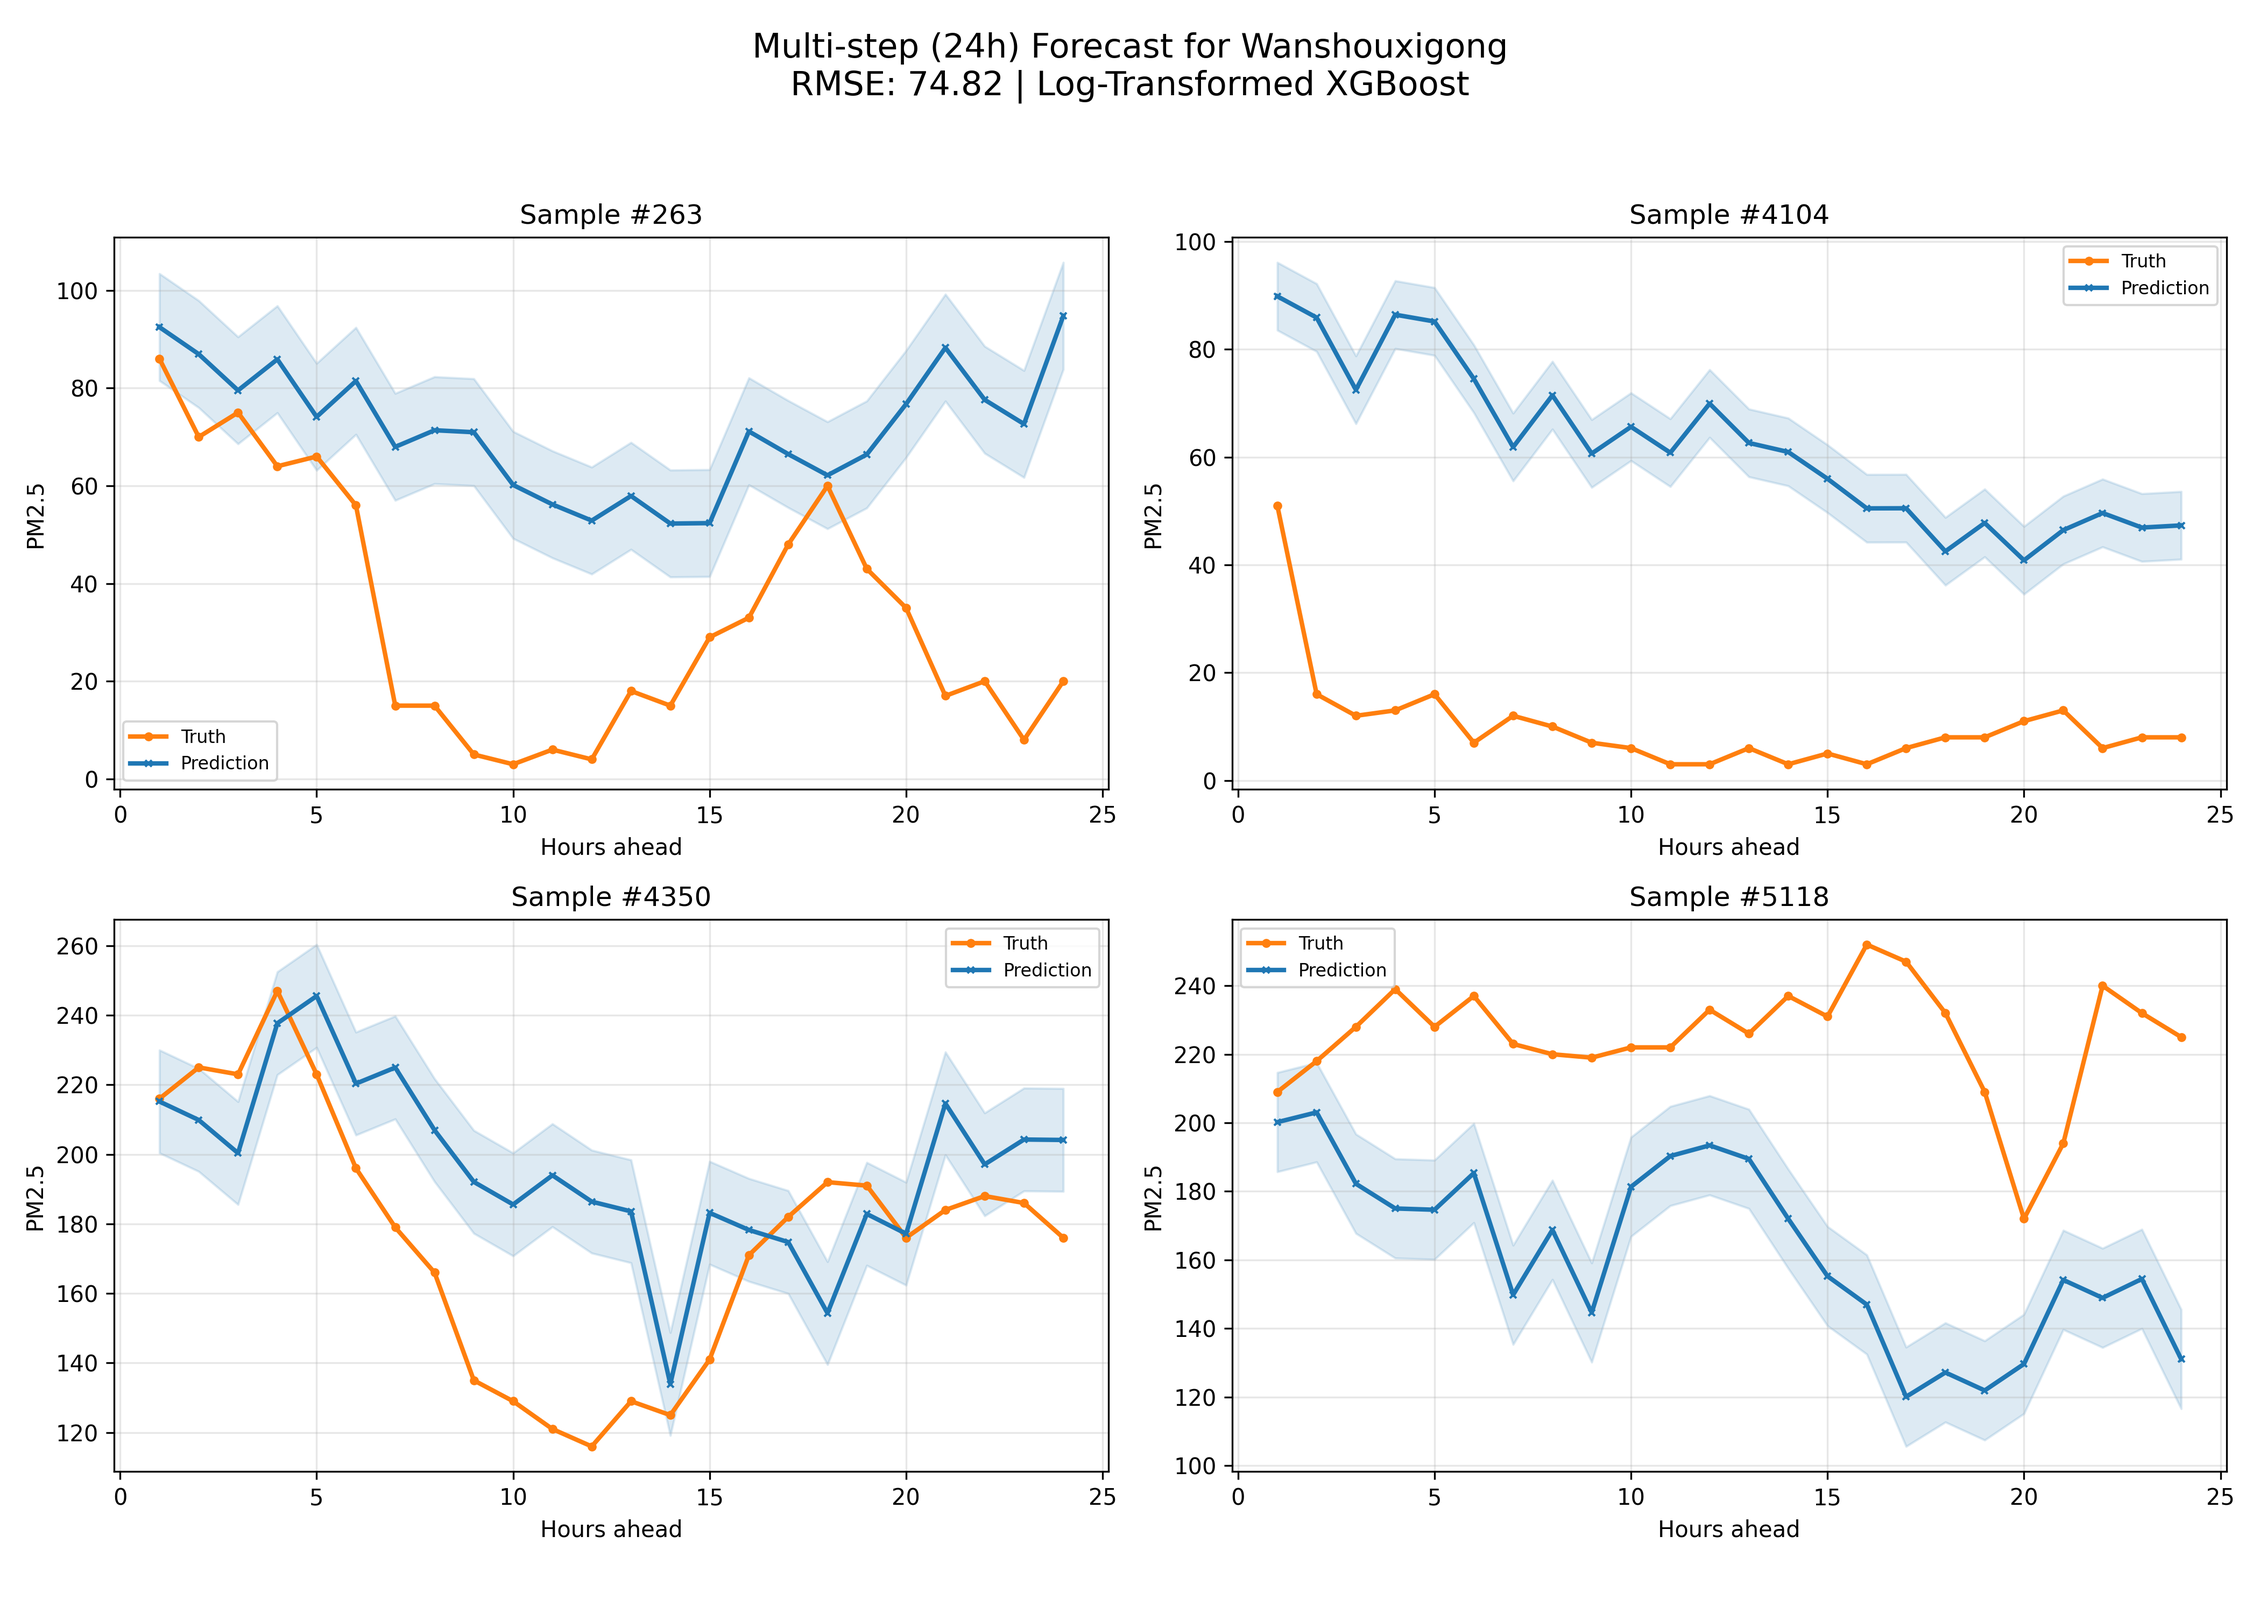
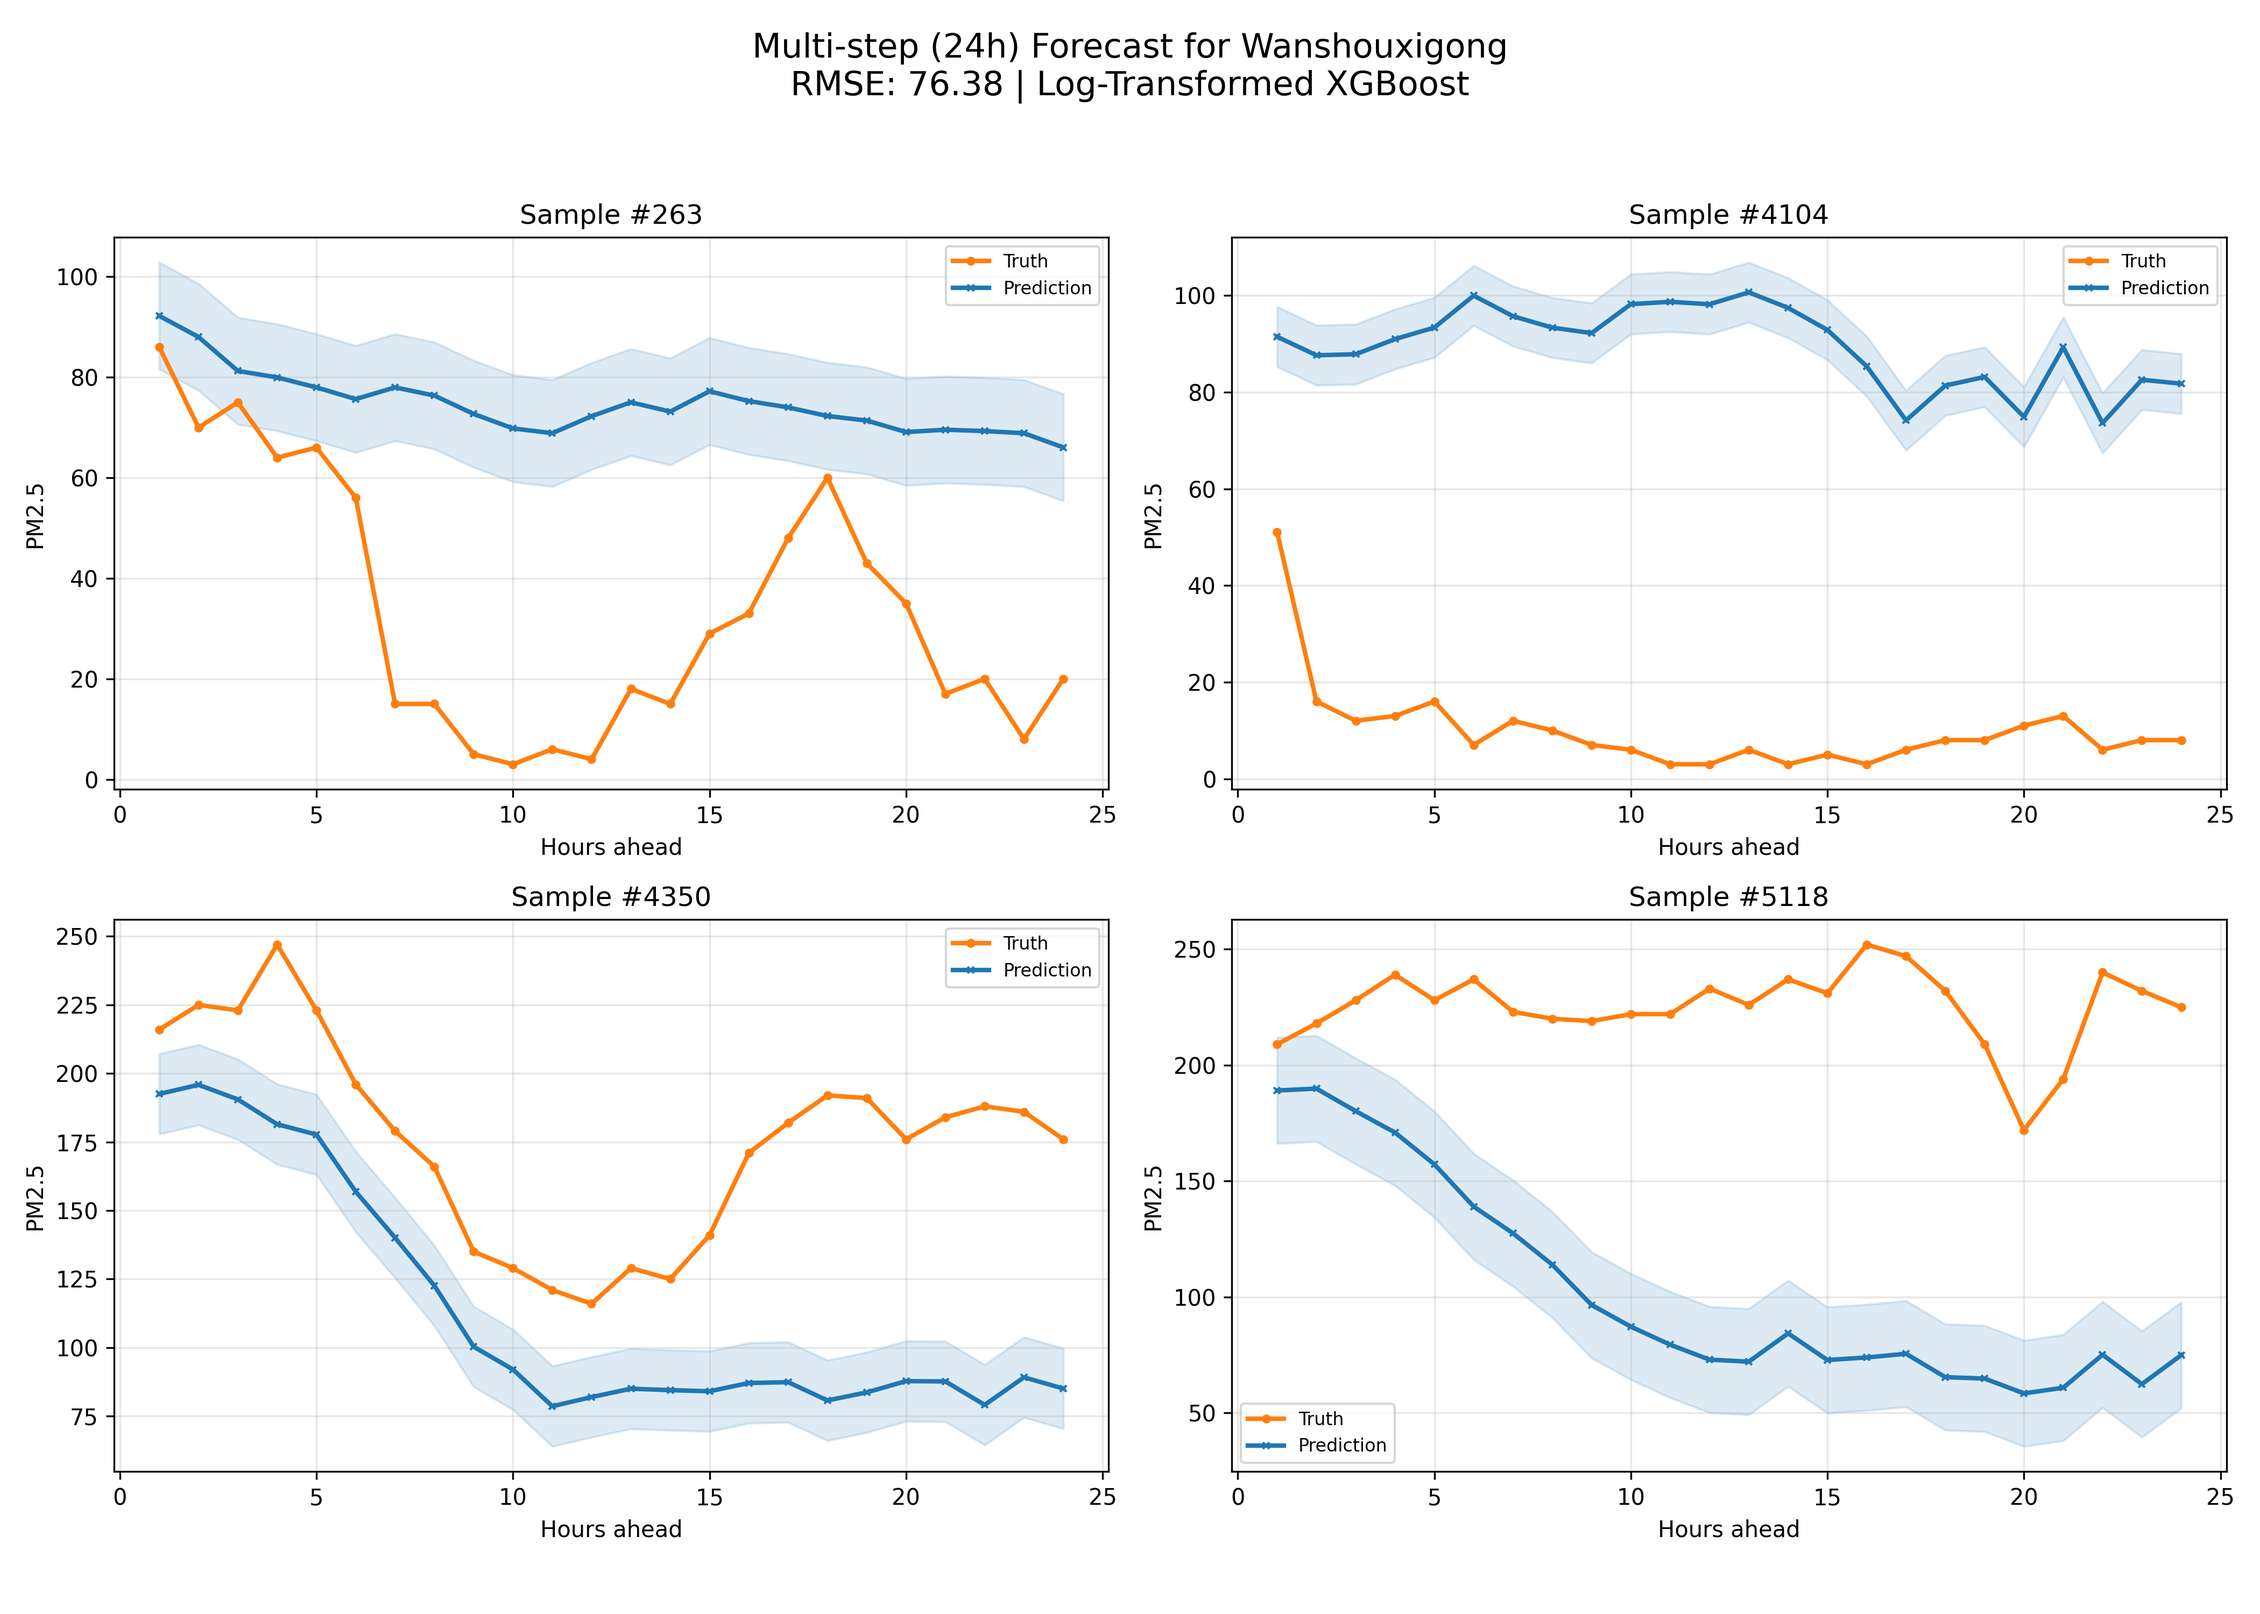
small changes

diff --git a/multi-output/run_drift.py b/multi-output/run_drift.py
@@ -7,6 +7,8 @@ from forecastor import Forecaster
 
 # ---- WITH DRIFT DETECTION -----
 
+DRIFT_STRATEGY = 'full refit'
+
 data_path = 'data/PRSA_Data_Wanshouxigong_20130301-20170228.csv'
 try:
     file_name = os.path.basename(data_path)
@@ -14,7 +16,7 @@ try:
 except:
     station_name = "UnknownStation"
 
-output_folder = 'results/MultiOutput_XGBoost_drift'
+output_folder = 'multi-output/results/MultiOutput_XGBoost_drift'
 os.makedirs(output_folder, exist_ok=True)
 
 horizon_hours = 24  # forecast horizon
@@ -60,12 +62,12 @@ forecaster.fit(X_train, y_train, X_val, y_val)
 # ==========================================
 # 4. Drift-Adaptive Rolling Forecast
 # ==========================================
-print(">>> Step 3: Drift-Adaptive Forecasting...")
+print(">>> Step 3: Drift-Adaptive Forecasting with strategy: ", DRIFT_STRATEGY)
 
 predictions = []
 errors = []
 
-update_stride = 250   
+update_stride = 1000   
 drift_threshold = 12.0  # PM2.5 error threshold
 
 for t in range(0, len(X_test), update_stride):
@@ -92,11 +94,14 @@ for t in range(0, len(X_test), update_stride):
     # 3. Adaptation Strategy (CHOOSE ONE)
     
     # ---- OPTIONS: FULL REFIT, PARTIAL REFIT, RETRAIN ----
-    if drift:
-        forecaster.retrain_recent(X_train_full, y_train_full, window_size=5000)
-    else:
-        forecaster.full_refit(X_batch, y_batch) # changable function
-
+    if drift and DRIFT_STRATEGY == 'full refit':
+        forecaster.full_refit(X_batch, y_batch)
+    elif drift and DRIFT_STRATEGY == 'partial refit':
+        forecaster.partial_refit(X_batch, y_batch)
+    elif drift and DRIFT_STRATEGY == 'retrain':
+        forecaster.retrain_recent(X_batch, y_batch)
+        
+        
 # Stack all batch predictions into final array
 y_pred = np.vstack(predictions)
 
@@ -137,7 +142,7 @@ for i, idx in enumerate(indices):
     plot_trajectory(axes[i], y_test[idx], y_pred[idx], start_idx=idx, horizon=horizon_hours)
     axes[i].set_title(f"Sample #{idx}")
 
-plt.suptitle(f"Multi-step ({horizon_hours}h) Forecast for {station_name} with Drift Detecion\n"
+plt.suptitle(f"Multi-step ({horizon_hours}h) Forecast for {station_name} with {DRIFT_STRATEGY}\n"
              f"RMSE: {rmse:.2f} | Log-Transformed XGBoost", fontsize=15)
 plt.tight_layout(rect=[0, 0.03, 1, 0.95])
 

diff --git a/multi-output/forecastor_drift.py b/multi-output/forecastor_drift.py
@@ -43,7 +43,7 @@ class Forecaster:
             colsample_bytree=0.8,
             n_jobs=-1, 
             random_state=42,
-            early_stopping_rounds=early_stopping_rounds 
+            #early_stopping_rounds=early_stopping_rounds 
         )
         
         # train the model
@@ -51,6 +51,7 @@ class Forecaster:
             self.model.fit(
                 X_train, y_train_log,
                 eval_set=eval_set,
+                early_stopping_rounds=early_stopping_rounds,
                 verbose=100
             )
         else:
@@ -97,11 +98,17 @@ class Forecaster:
     def partial_refit(self, X_new, y_new):
         print("PARTIAL REFIT triggered")
 
-        self.model.fit(
-            X_new,
-            np.log1p(y_new),
-            xgb_model=self.model
-        )
+        # 1. Get current model parameters (except callbacks / early stopping)
+        safe_params = {k: v for k, v in self.model.get_params().items()
+                    if k not in ["early_stopping_rounds", "callbacks"]}
+
+        # 2. Create a brand-new XGBRegressor (completely clean)
+        self.model = xgb.XGBRegressor(**safe_params)
+
+        # 3. Fit WITHOUT any eval_set / early stopping
+        self.model.fit(X_new, np.log1p(y_new), verbose=False)
+
+
 
 
     # -----------------------------
